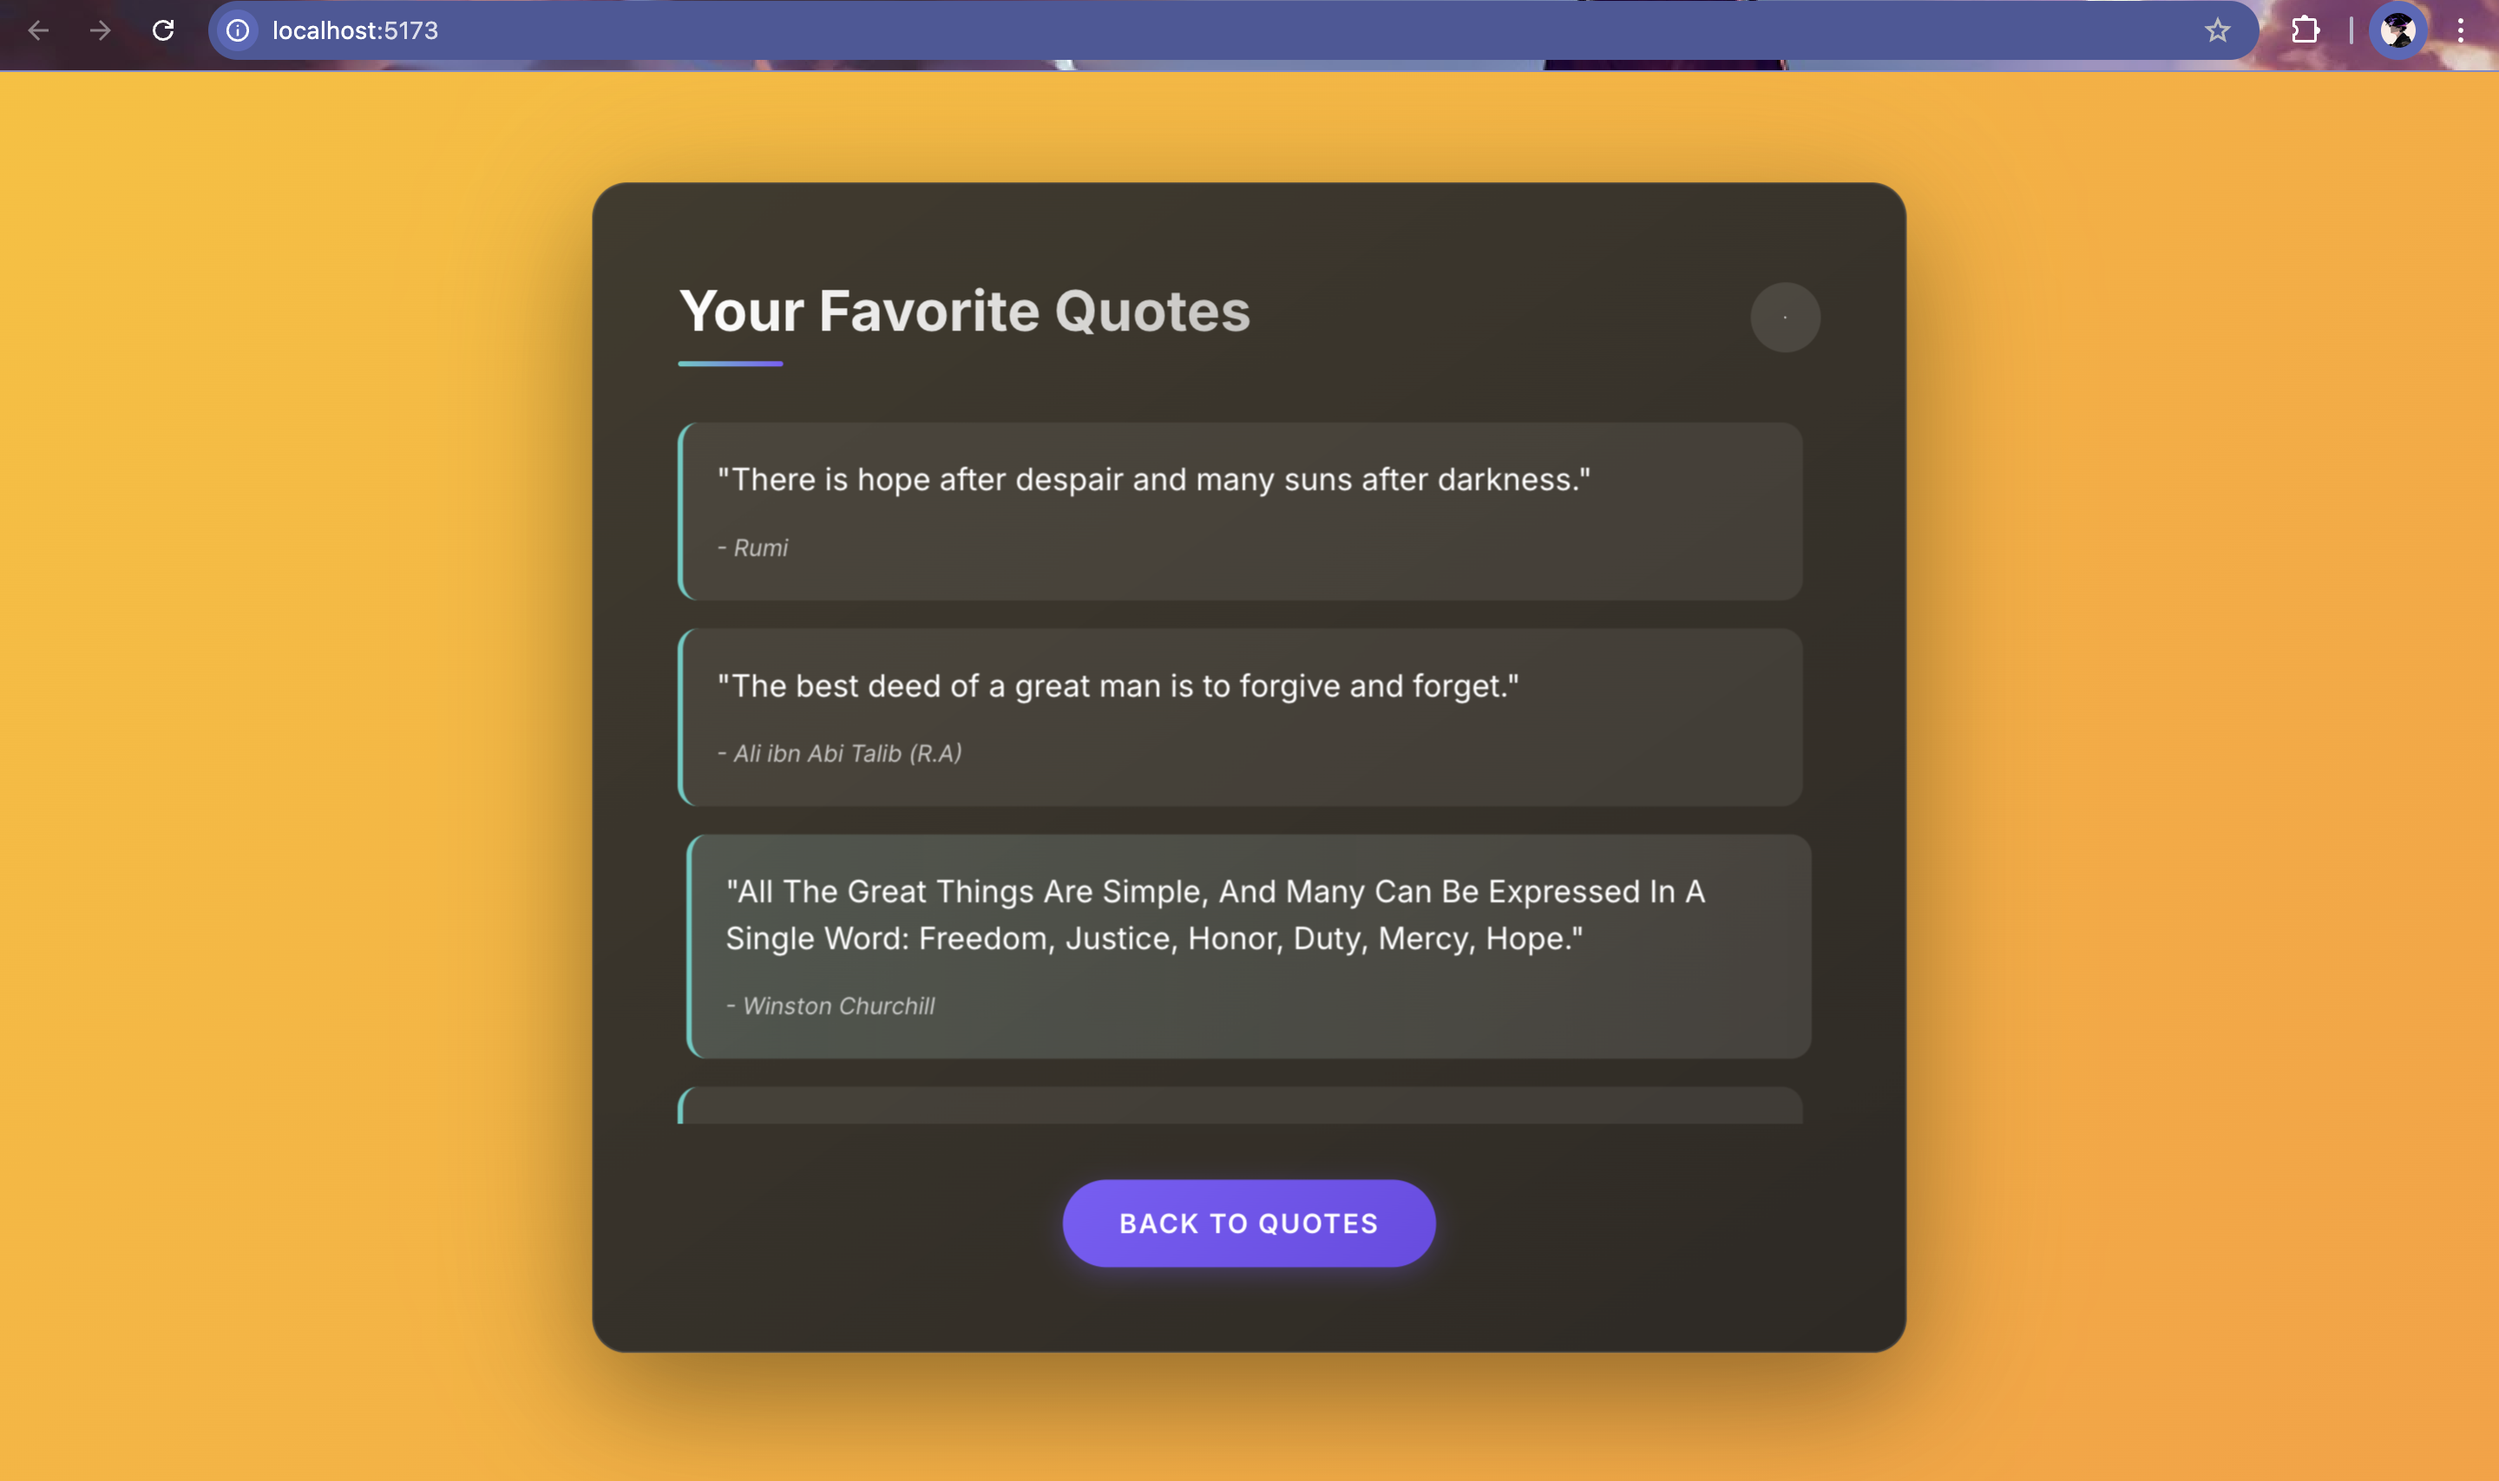
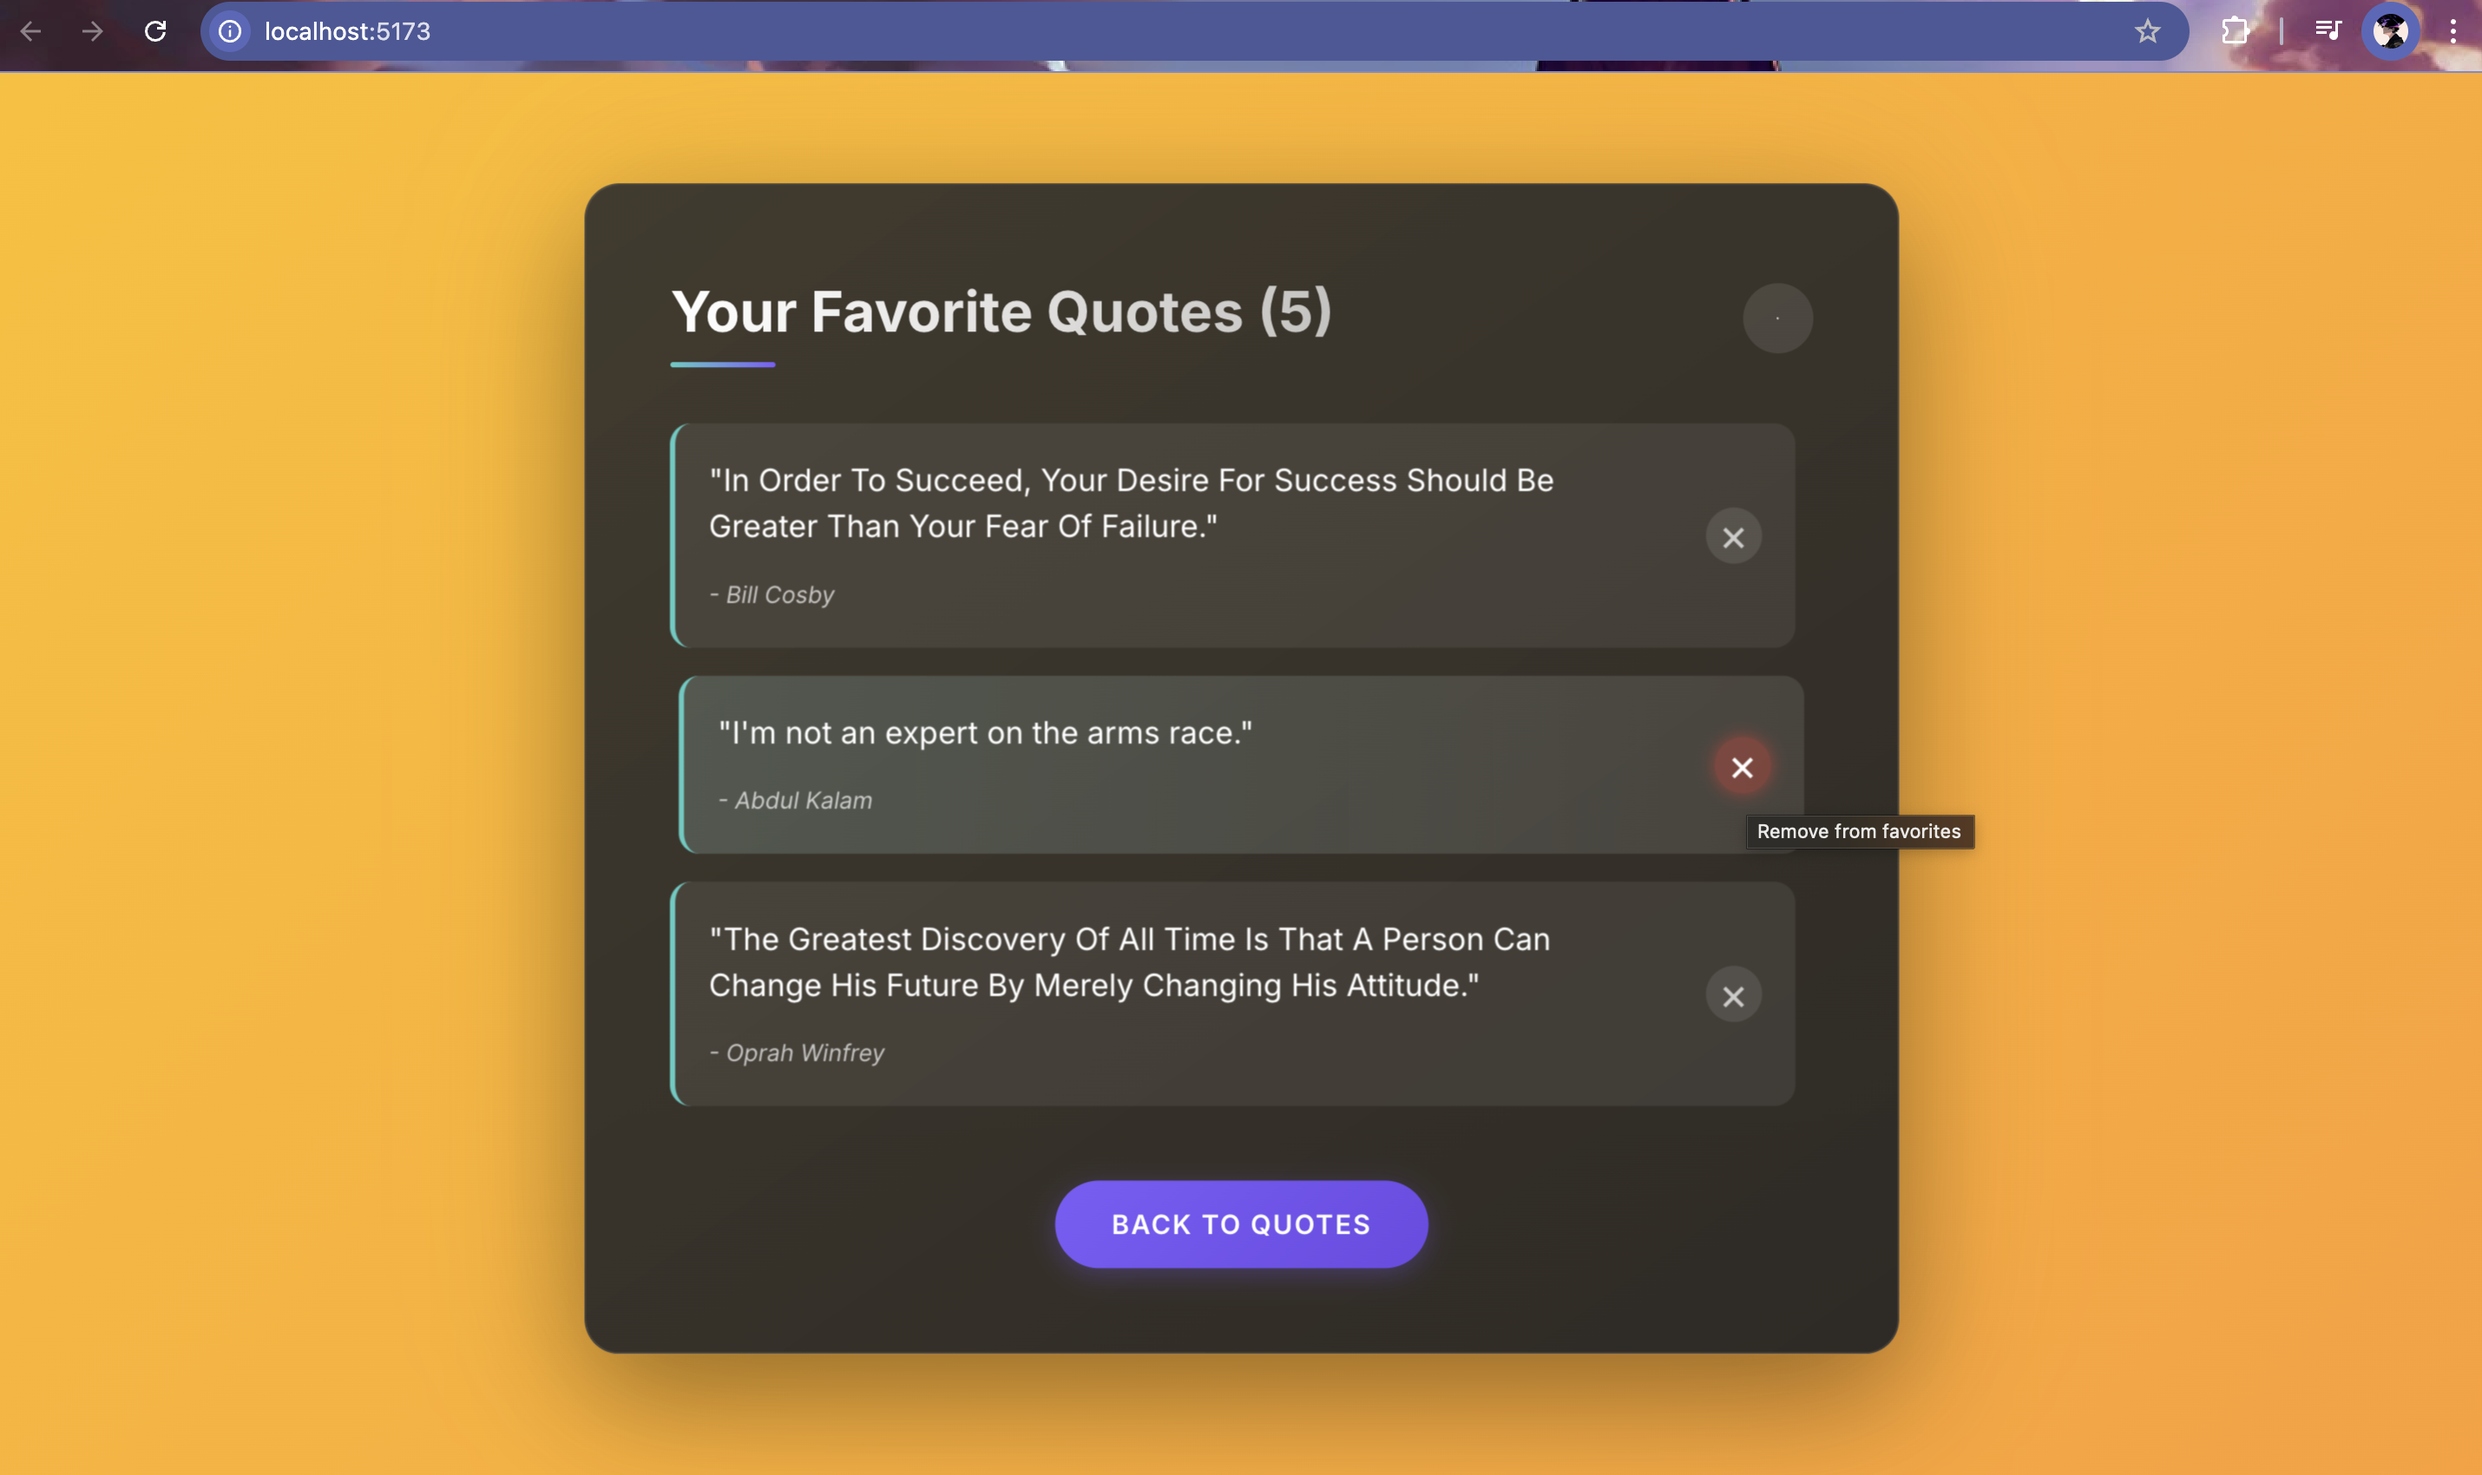
Update README with favorites management feature details

diff --git a/README.md b/README.md
@@ -16,7 +16,7 @@ Quotify is developed to showcase inspirational quotes in an elegant and user-fri
 ### Favorites View
 ![Favorites View](Screenshots/view_favourite.png)
 
-*Saved favorite quotes for easy access*
+*Saved favorite quotes for easy access with the ability to remove individual quotes*
 
 ### Share Options
 ![Share Options](Screenshots/share.png)
@@ -38,6 +38,7 @@ Quotify is developed to showcase inspirational quotes in an elegant and user-fri
 ### Current Implementation
 * Quote retrieval from multiple API sources with fallback mechanisms
 * **Persistent Storage**: Local storage for saving favorite quotes across sessions
+* **Favorites Management**: Add quotes to favorites and remove them individually as needed
 * **Offline Support**: Automatic detection of network status with seamless fallback to local quotes
 * Responsive design with modern gradient UI elements
 * Share quotes via clipboard or Twitter
